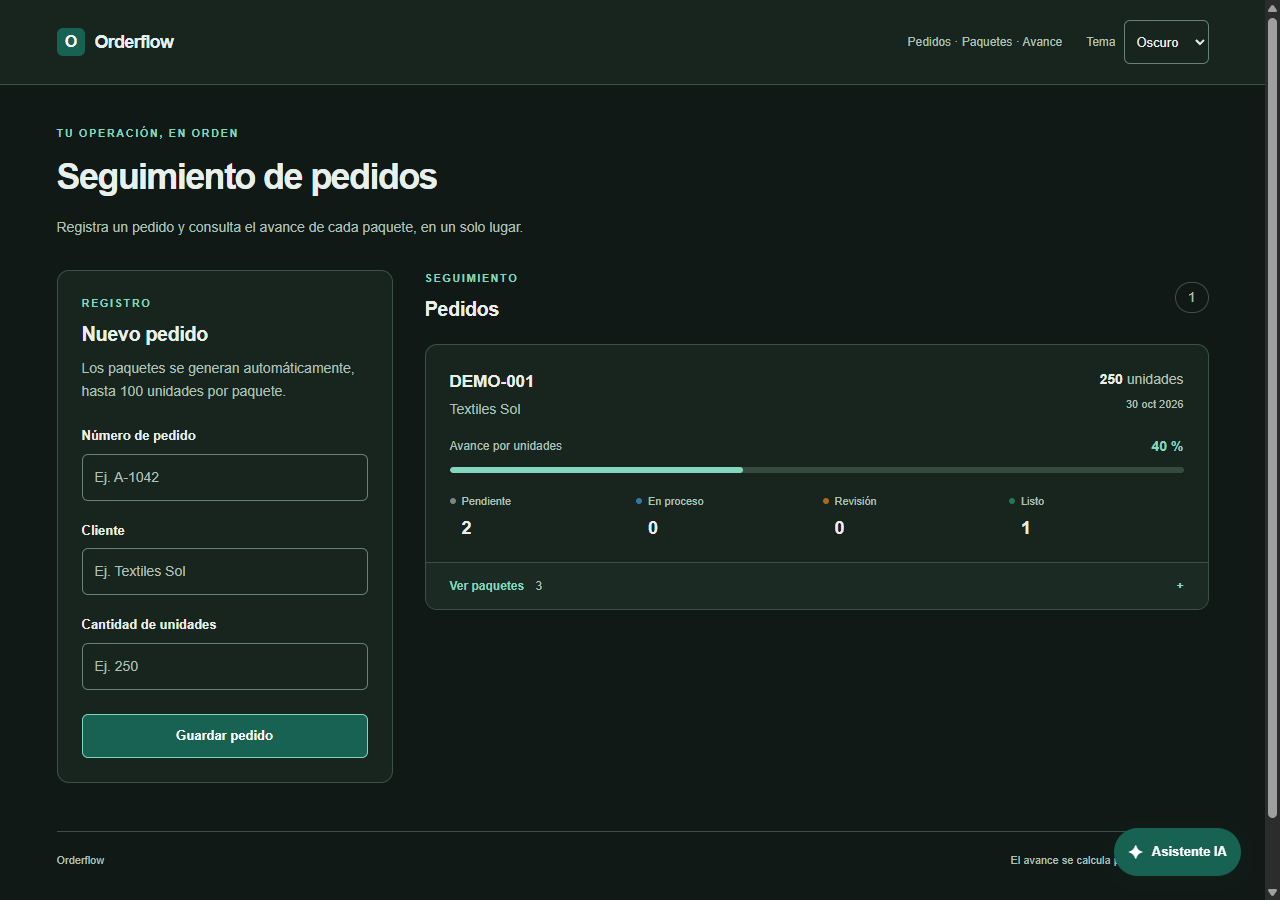
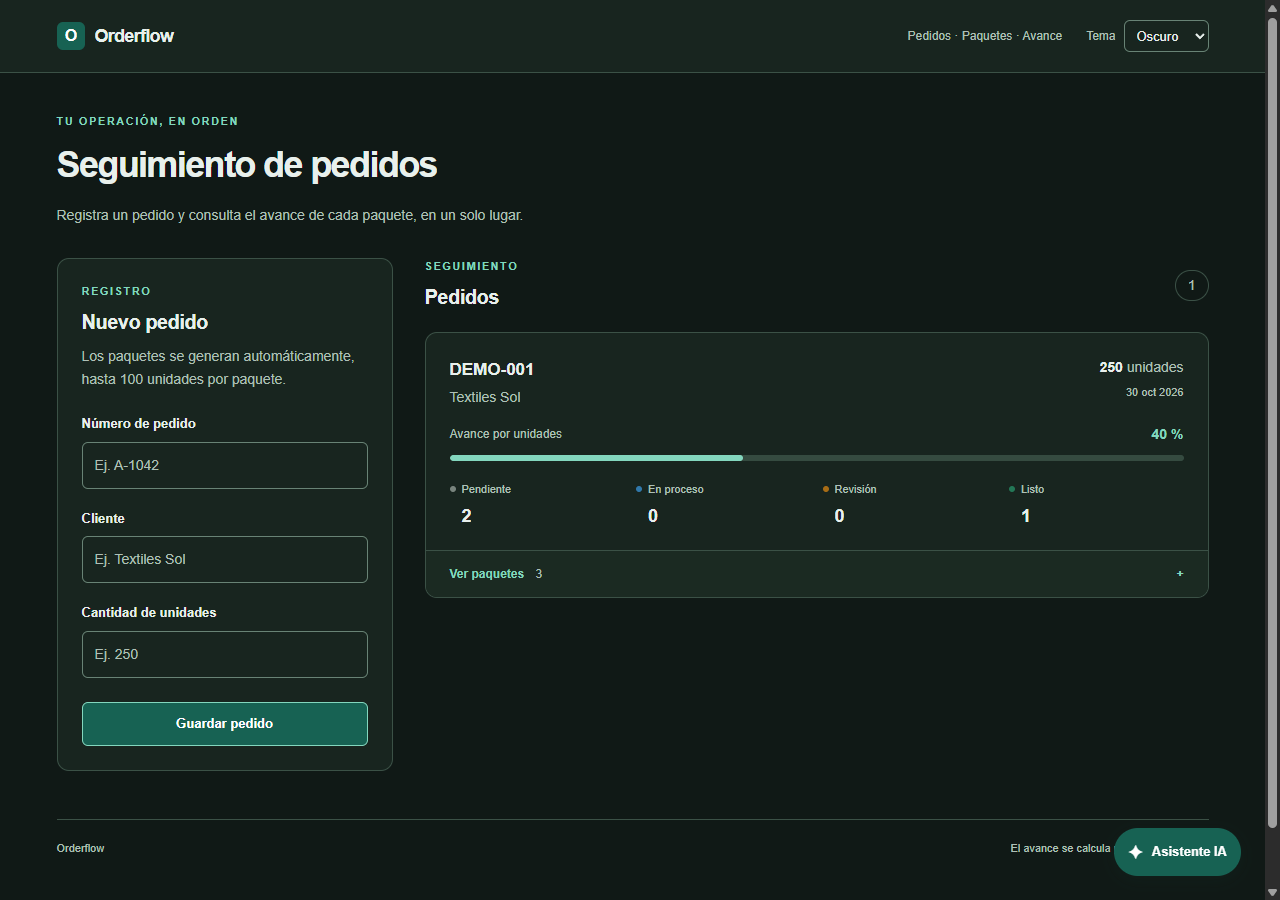
style(ui): compact desktop theme selector

diff --git a/src/app/globals.css b/src/app/globals.css
@@ -94,7 +94,8 @@ body {
 .header-caption { font-size: 0.75rem; color: var(--muted); }
 .header-actions { display: flex; align-items: center; gap: 1.5rem; }
 .theme-switch { display: flex; align-items: center; gap: 0.5rem; font-size: 0.75rem; color: var(--muted); }
-.theme-switch select { min-height: 44px; max-width: 7rem; padding: 0.5rem; border: 1px solid var(--input-border); border-radius: 0.375rem; background: var(--surface); color: var(--foreground); cursor: pointer; font-size: 0.8125rem; }
+.theme-switch select { min-height: 32px; max-width: 7rem; padding: 0.25rem 0.5rem; border: 1px solid var(--input-border); border-radius: 0.375rem; background: var(--surface); color: var(--foreground); cursor: pointer; font-size: 0.8125rem; }
+@media (pointer: coarse) { .theme-switch select { min-height: 44px; } }
 input, textarea, select { color: inherit; }
 .page-shell { max-width: 76rem; padding: 2.5rem 2rem 1.5rem; margin: auto; }
 .page-heading { margin-bottom: 2rem; }

diff --git a/docs/theme-verification.md b/docs/theme-verification.md
@@ -14,7 +14,7 @@ Las variables CSS separan texto de acento y fondo de botones para conservar cont
 - Suite completa: 38 archivos, **414 pruebas** aprobadas. Lint, TypeScript y build aprobados.
 - Navegador local sobre build de producción y BD de ejemplos: selección Oscuro conservada al recargar aunque el sistema prefiera Claro. Sistema responde a cambios emulados Claro/Oscuro.
 - Consola sin errores ni advertencias, incluidos avisos de hidratación.
-- Selector operable con teclado, foco visible y altura de 44 px.
+- Selector operable con teclado y foco visible. Ajuste visual solicitado: altura compacta de 32 px en escritorio; 44 px con puntero táctil para conservar el área de toque.
 - Móvil a 375 px: página y diálogo de 375 px, sin desbordamiento horizontal. Selector del resumen con superficie oscura.
 - Contraste calculado con los colores efectivos del navegador: doce pares de texto/fondo por tema, incluidos mensajes, etiquetas y botones normales/hover. Mínimo claro **5.24:1**; mínimo oscuro **5.88:1**, superiores a 4.5:1. Los controles deshabilitados no se incluyen en estos mínimos.
 - Captura real en [modo oscuro](media/orderflow-dark.png). Se revisó el resultado visual; no se modificaron datos de producción ni se llamó al proveedor de IA durante esta revisión.
